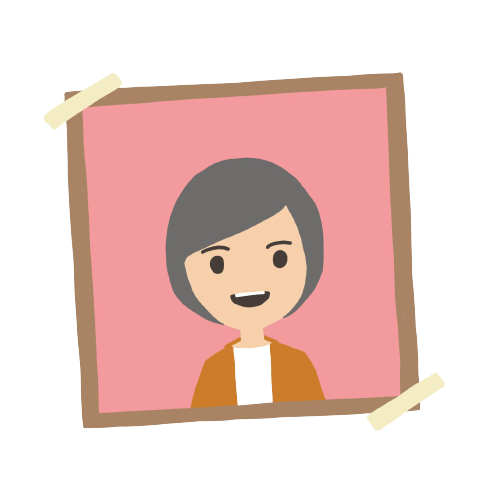
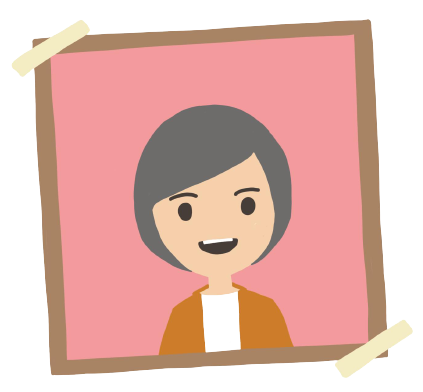
Update to add all page images

diff --git a/data-analysis-and-engineering.html b/data-analysis-and-engineering.html
@@ -15,7 +15,7 @@
         <div class="software-engineering-container">
 
             <div class="light-pink-container">
-                <img class="profile-image" src="images/nlp-circle.png" width=25%>
+                <img class="profile-image" src="images/dae.png" width=25%>
                 <h2>Software Design and Engingeering</h2>
                 <div class="software-engineering-intro">
                     <p class="software-engineering-text"> " Welcome to Software Design and Enineering! I'm Samir " </p>

diff --git a/cyber.html b/cyber.html
@@ -15,7 +15,7 @@
         <div class="software-engineering-container">
 
             <div class="light-pink-container">
-                <img class="profile-image" src="images/nlp-circle.png" width=25%>
+                <img class="profile-image" src="images/CJ.png" width=25%>
                 <h2>Cyber Security</h2>
                 <div class="software-engineering-intro">
                     <p class="software-engineering-text"> " Welcome to Software Design and Enineering! I'm Samir " </p>

diff --git a/hci.html b/hci.html
@@ -15,7 +15,7 @@
         <div class="software-engineering-container">
 
             <div class="light-pink-container">
-                <img class="profile-image" src="images/nlp-circle.png" width=25%>
+                <img class="profile-image" src="images/hariraj.png" width=25%>
                 <h2>UX / UI Design</h2>
                 <div class="software-engineering-intro">
                     <p class="software-engineering-text"> " Welcome to Human Computer Interaction! I'm ... " </p>

diff --git a/operating-systems.html b/operating-systems.html
@@ -15,7 +15,7 @@
         <div class="software-engineering-container">
 
             <div class="light-pink-container">
-                <img class="profile-image" src="images/nlp-circle.png" width=25%>
+                <img class="profile-image" src="images/olive.png" width=25%>
                 <h2>Operating Systems</h2>
                 <div class="software-engineering-intro">
                     <p class="software-engineering-text"> " Welcome to Operating Systems! I'm ... " </p>

diff --git a/ml.html b/ml.html
@@ -15,7 +15,7 @@
         <div class="software-engineering-container">
 
             <div class="light-pink-container">
-                <img class="profile-image" src="images/nlp-circle.png" width=25%>
+                <img class="profile-image" src="images/mahira.png" width=25%>
                 <h2>Machine Learning</h2>
                 <div class="software-engineering-intro">
                     <p class="software-engineering-text"> " Welcome to Machine Learning! I'm ... " </p>

diff --git a/uxui.html b/uxui.html
@@ -15,7 +15,7 @@
         <div class="software-engineering-container">
 
             <div class="light-pink-container">
-                <img class="profile-image" src="images/nlp-circle.png" width=25%>
+                <img class="profile-image" src="images/ulli.png" width=25%>
                 <h2>UX / UI Design</h2>
                 <div class="software-engineering-intro">
                     <p class="software-engineering-text"> " Welcome to UX / UI Design! I'm ... " </p>

diff --git a/index.html b/index.html
@@ -59,7 +59,7 @@
                     </a>
                 </div>
                 <div id="left-container" class="nlp-box">
-                    <a href="data-analysis-and-engineering">
+                    <a href="data-analysis-and-engineering.html">
                         <img src="images/data.png" alt="natural-language-processing" width=100%>
                     </a>
                 </div>

diff --git a/styles/style.css b/styles/style.css
@@ -44,7 +44,6 @@
 
 .nlp-container {
     padding: 20px;
-    background-color: #FFC6C8;
 }
 
 .robotics-container {
@@ -61,7 +60,6 @@
 
 .pink-container {
     padding: 20px;
-    background-color: #F39A9D;
     margin: 10px;
     height: 1000px;
 }
